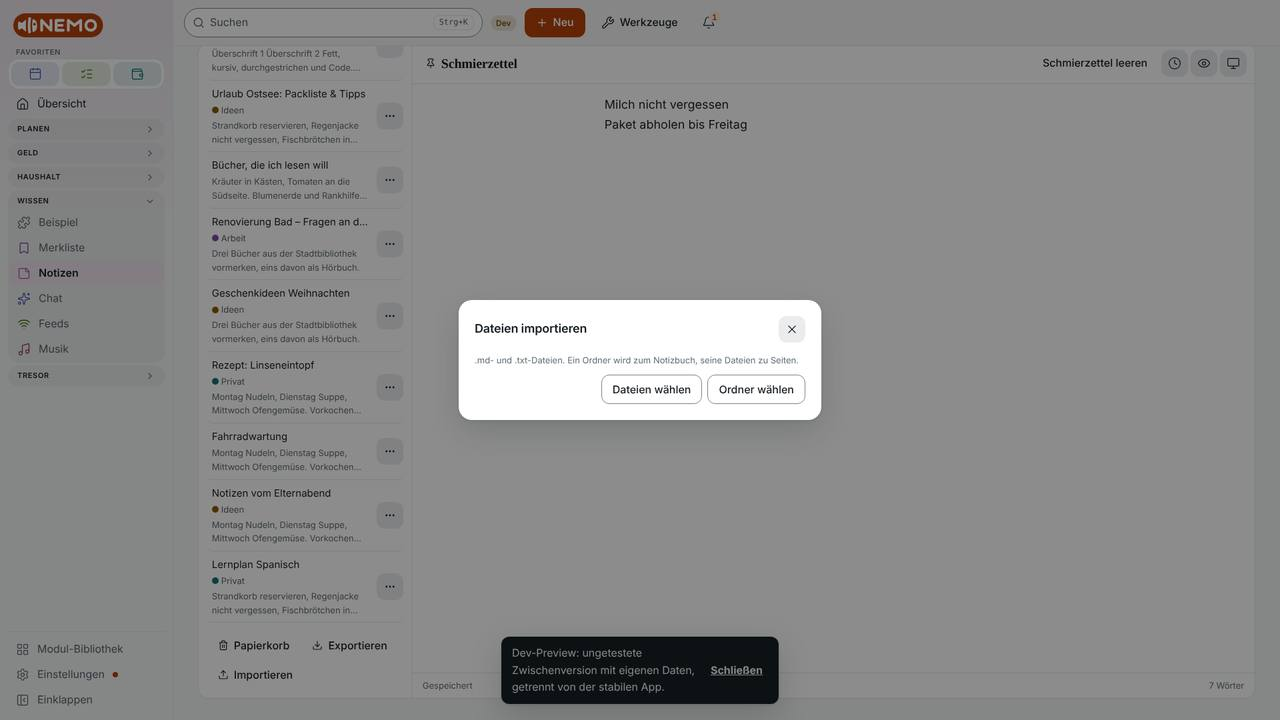
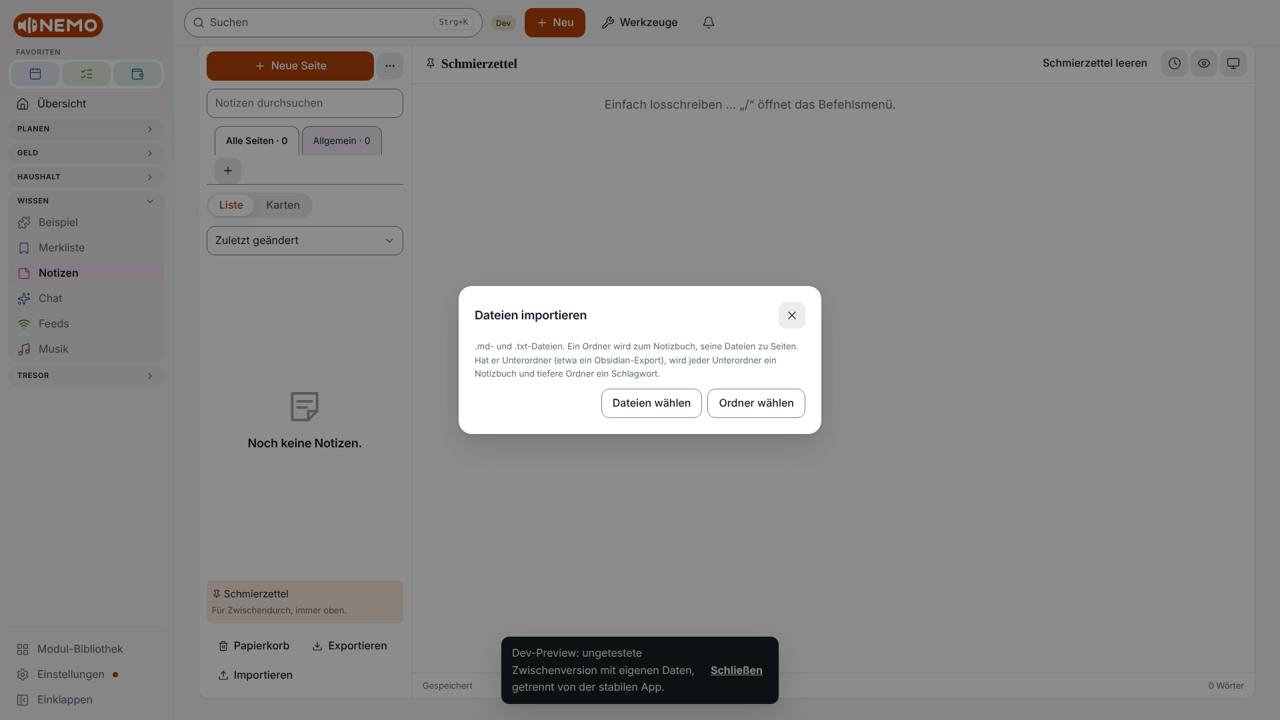
docs(qa): council round 1 – message, change notes, findings, import screenshot
Claude-Session: https://claude.ai/code/session_019RrxT2vxUHTt63hhhze51g

Changed region(s): [[0.1562, 0.0611, 0.3125, 0.8556], [0.3438, 0.3972, 0.6562, 0.6111], [0.4688, 0.1222, 0.6875, 0.1833]]

diff --git a/.changes/demo-d-first-contact.md b/.changes/demo-d-first-contact.md
@@ -2,7 +2,7 @@
 type: fixed
 area: notes
 breaking: false
-de: Notizen-Import aus Obsidian: Unterordner werden zu Notizbüchern in der Reihenfolge ihrer Nummern, tiefere Ordner zu Schlagwörtern, eingebettete Bilder bleiben nicht als Rest im Text.
+de: Notizen-Import aus Obsidian: Unterordner werden zu Notizbüchern in der Reihenfolge ihrer Nummern, tiefere Ordner zu Schlagwörtern, eingebettete Bilder hinterlassen keine Reste mehr im Text.
 en: Notes import from Obsidian: sub-folders become notebooks in the order of their numbers, deeper folders become tags, embedded pictures leave no remnants in the text.
 ---
 
@@ -10,24 +10,24 @@ en: Notes import from Obsidian: sub-folders become notebooks in the order of the
 type: fixed
 area: backup
 breaking: false
-de: Nach einem heruntergeladenen Backup zeigt der Einstellungsstatus „Gesichert“; die Vorschau zählt nur Tabellen mit Einträgen.
-en: After a downloaded backup the settings status shows "Saved"; the preview counts only tables that hold entries.
+de: Nach einem heruntergeladenen Backup zeigt der Einstellungsstatus „Gesichert · Als Datei“; die Vorschau zählt nur Tabellen mit Einträgen.
+en: After a downloaded backup the settings status shows "Backed up · As a file"; the preview counts only tables that hold entries.
 ---
 
 ---
 type: changed
 area: backup
 breaking: false
-de: Das Backup ohne Passwort ist eingerückt und beschreibt sein Format in der Datei selbst.
-en: The backup without a password is indented and describes its format in the file itself.
+de: Das Backup ohne Passwort lässt sich im Texteditor lesen und erklärt sein Format selbst.
+en: The backup without a password reads well in a text editor and explains its own format.
 ---
 
 ---
 type: added
 area: settings
 breaking: false
-de: Einstellungen → Verbindungen zeigt, was überhaupt ins Netz gehen kann (aus dem Code, bei jedem Build geprüft); „Was ging wohin?“ ist ohne „In Arbeit anzeigen“ sichtbar.
-en: Settings → Connections shows everything that can go to the network (from the code, checked on every build); "What went where?" is visible without "Show work in progress".
+de: Einstellungen → Verbindungen zeigt, was überhaupt ins Netz gehen kann, und nennt, was die Sperre nicht erfasst; „Was ging wohin?“ ist ohne „In Arbeit anzeigen“ sichtbar.
+en: Settings → Connections shows everything that can go to the network and names what the block does not cover; "What went where?" is visible without "Show work in progress".
 ---
 
 ---

diff --git a/docs/qa/round-5/d/MESSAGE.md b/docs/qa/round-5/d/MESSAGE.md
@@ -1,17 +1,11 @@
 # Nachricht an D (von Sven, per Messenger)
 
-Hi Daniel,
-
-hier ist die Testversion von Nemo (sie füllt beim ersten Start Beispieldaten ein, die sind unter Einstellungen → Entwickler wieder weg): <LINK-DEV-PREVIEW>
-
-PC (Windows): die `.exe` aus dem Link laden und starten. Windows warnt vor einem unbekannten Herausgeber, „Weitere Informationen → Trotzdem ausführen“ (Details stehen auf der Seite).
-Handy (Samsung): die `.apk` aus dem Link laden und öffnen. Android fragt, ob du Apps aus dieser Quelle erlauben willst; einmal zulassen reicht.
-
+Hi Daniel, hier ist die Testversion von Nemo: <LINK-DEV-PREVIEW> (sie füllt beim ersten Start Beispieldaten ein; weg damit unter Einstellungen → Entwickler).
+PC: die `.exe` laden und starten; Windows warnt vor einem unbekannten Herausgeber, „Weitere Informationen → Trotzdem ausführen“.
+Handy: die `.apk` laden und öffnen; Android fragt einmal, ob du Apps aus dieser Quelle erlauben willst.
 Für dich wahrscheinlich spannend:
-1. PC und Handy koppeln: am PC unter Einstellungen → Sync & Backup „Gerät koppeln“, das Handy scannt den QR-Code (die Handy-Seite kommt gerade erst, falls sie fehlt: das ist bekannt).
-2. Backup anlegen, App-Daten löschen, Backup zurückspielen und vergleichen; das Klartext-Backup kannst du im Editor lesen.
+1. Abgleich im Heimnetz: am PC unter Einstellungen → Sync & Backup „Gerät koppeln“ ansehen. Die Handy-Seite (QR scannen) ist noch nicht drin, die kommt als Nächstes; sag mir, was dir am PC-Teil fehlt.
+2. Backup anlegen, App-Daten löschen, Backup zurückspielen und vergleichen; die Datei ohne Passwort kannst du im Editor lesen.
 3. Deinen Obsidian-Export (Ordner oder ZIP) unter Notizen → Importieren einlesen und schauen, ob deine Ordner stimmen.
-
-Unter Einstellungen → Verbindungen steht, was überhaupt ins Netz gehen kann, und was seit dem Start rausging; dein Netzwerk-Tab darf gern dagegen prüfen.
-
-Sag mir ehrlich, was nervt oder fehlt: direkt per Nachricht an mich oder als Issue auf GitHub (Einstellungen → Über Nemo → „Fehler melden“).
+Unter Einstellungen → Verbindungen steht, was überhaupt ins Netz gehen kann; dein Netzwerk-Tab darf gern dagegen prüfen.
+Sag mir ehrlich, was nervt oder fehlt: per Nachricht an mich oder als Issue auf GitHub (Einstellungen → Über Nemo → „Fehler melden“).
